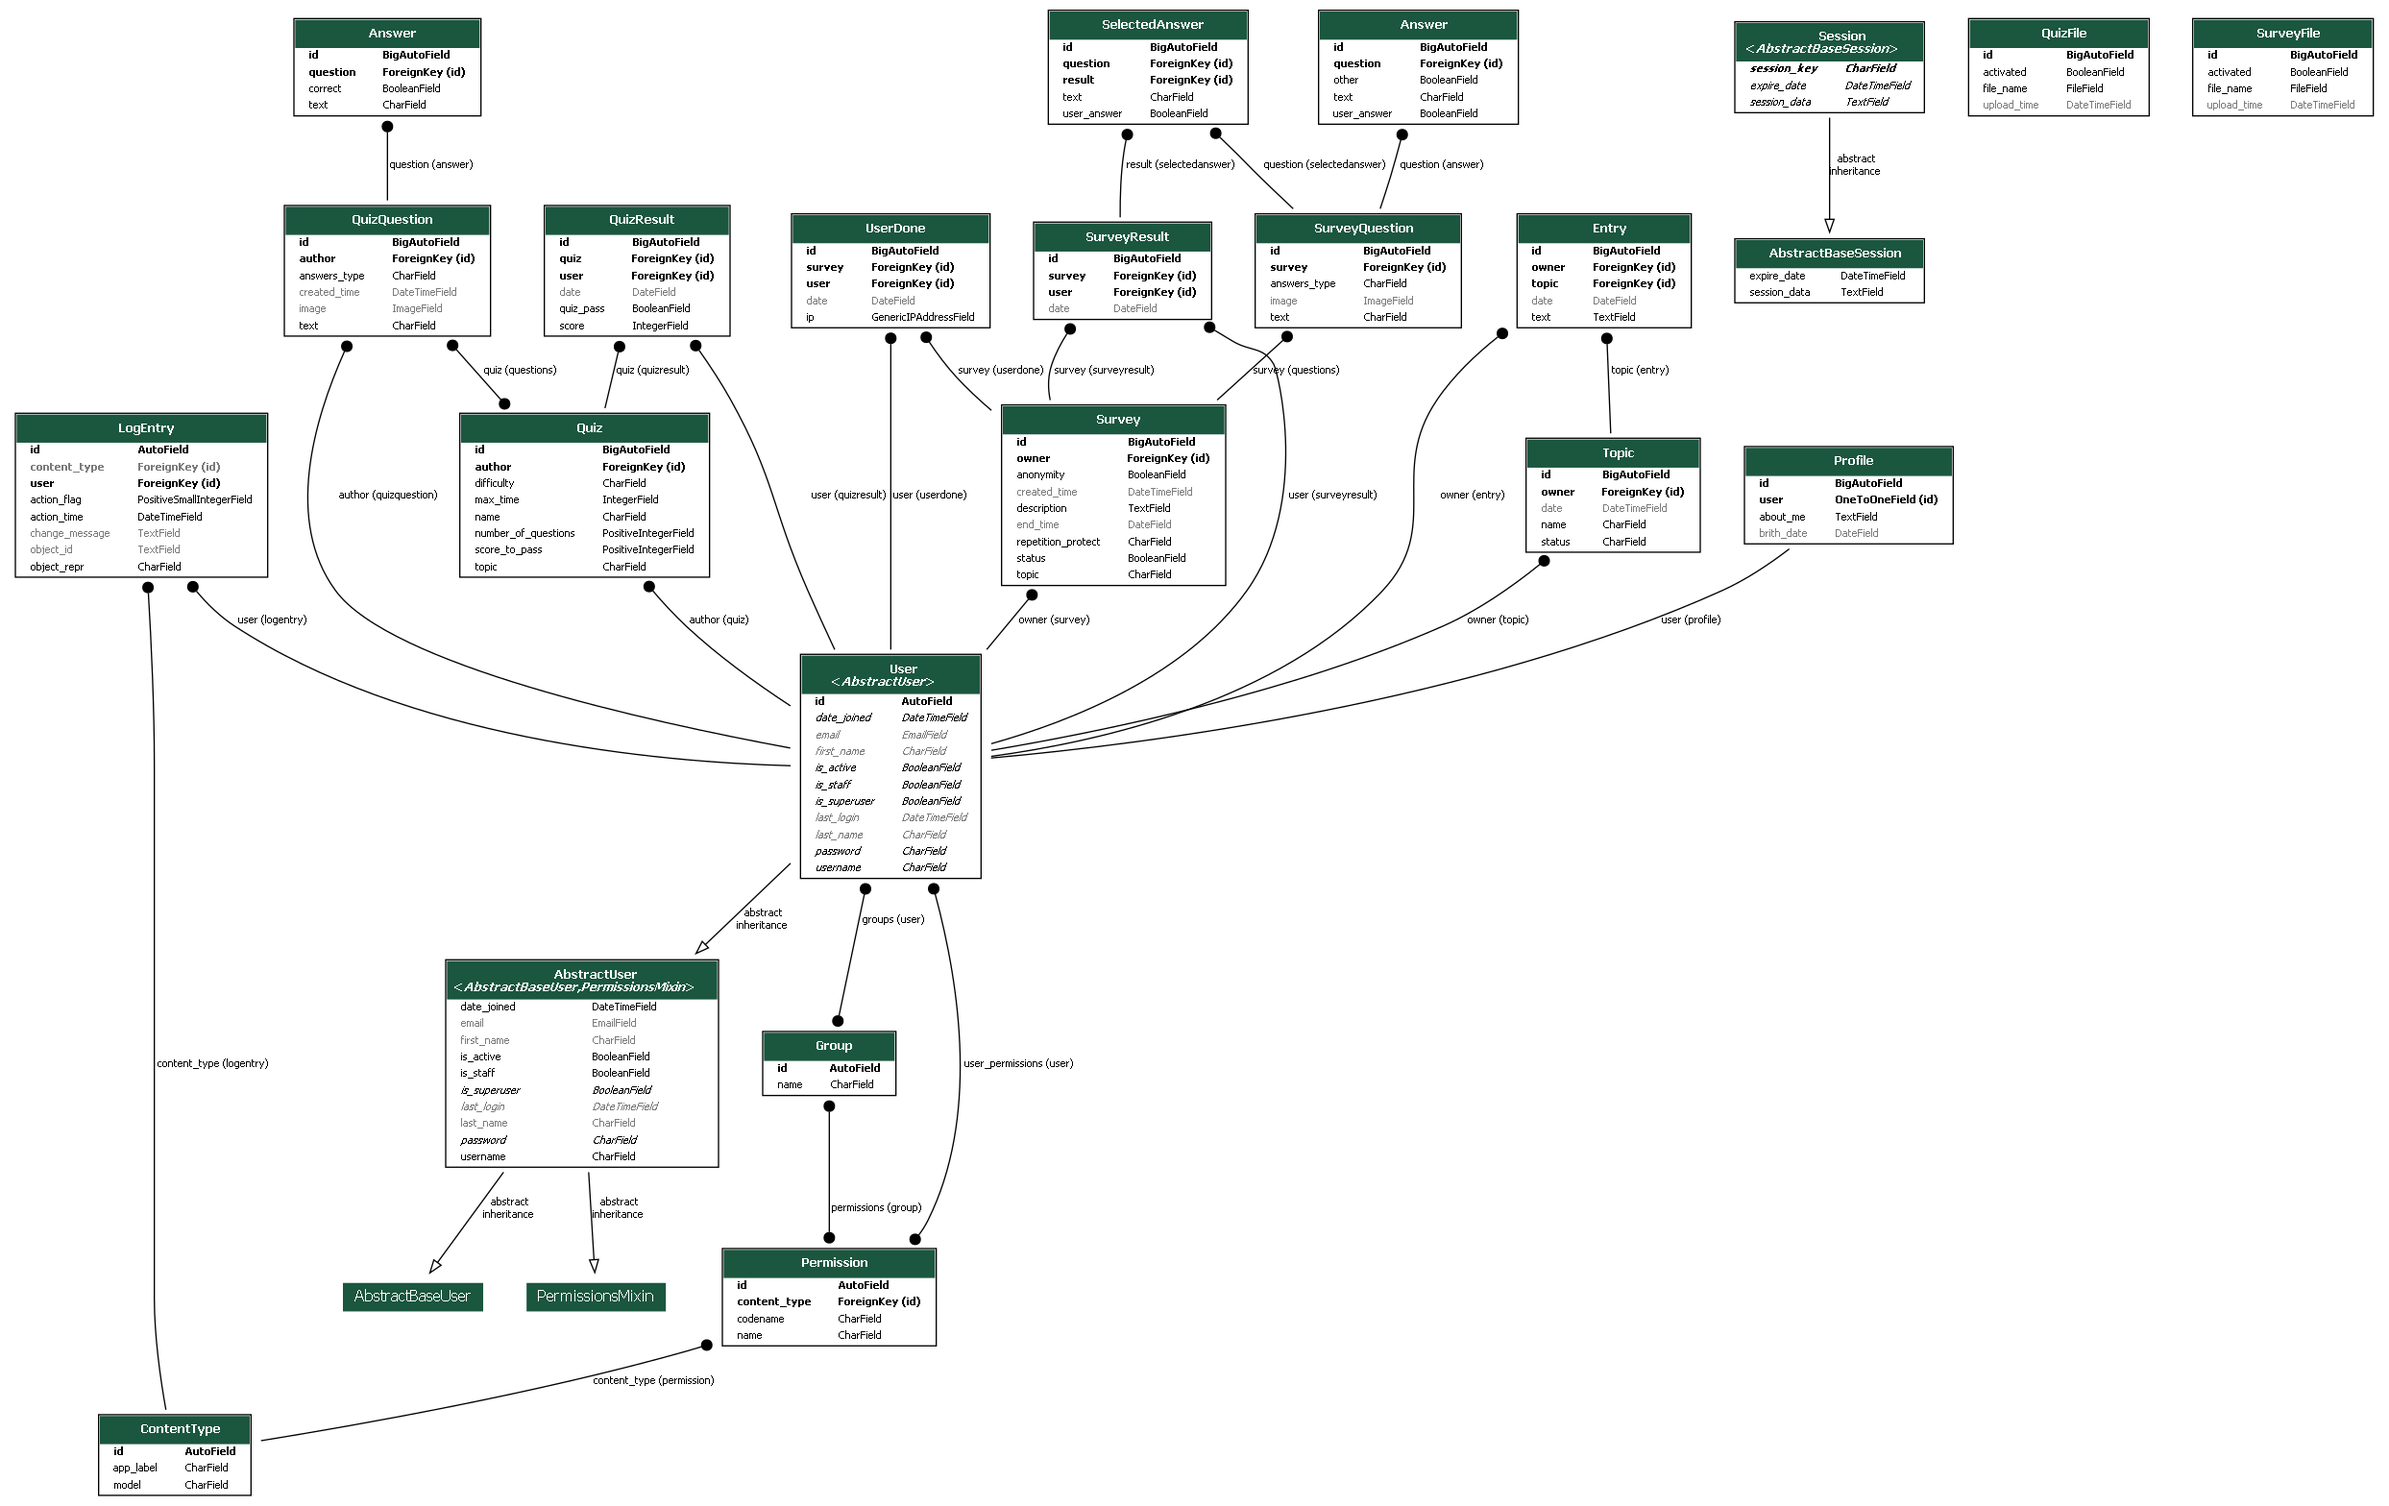
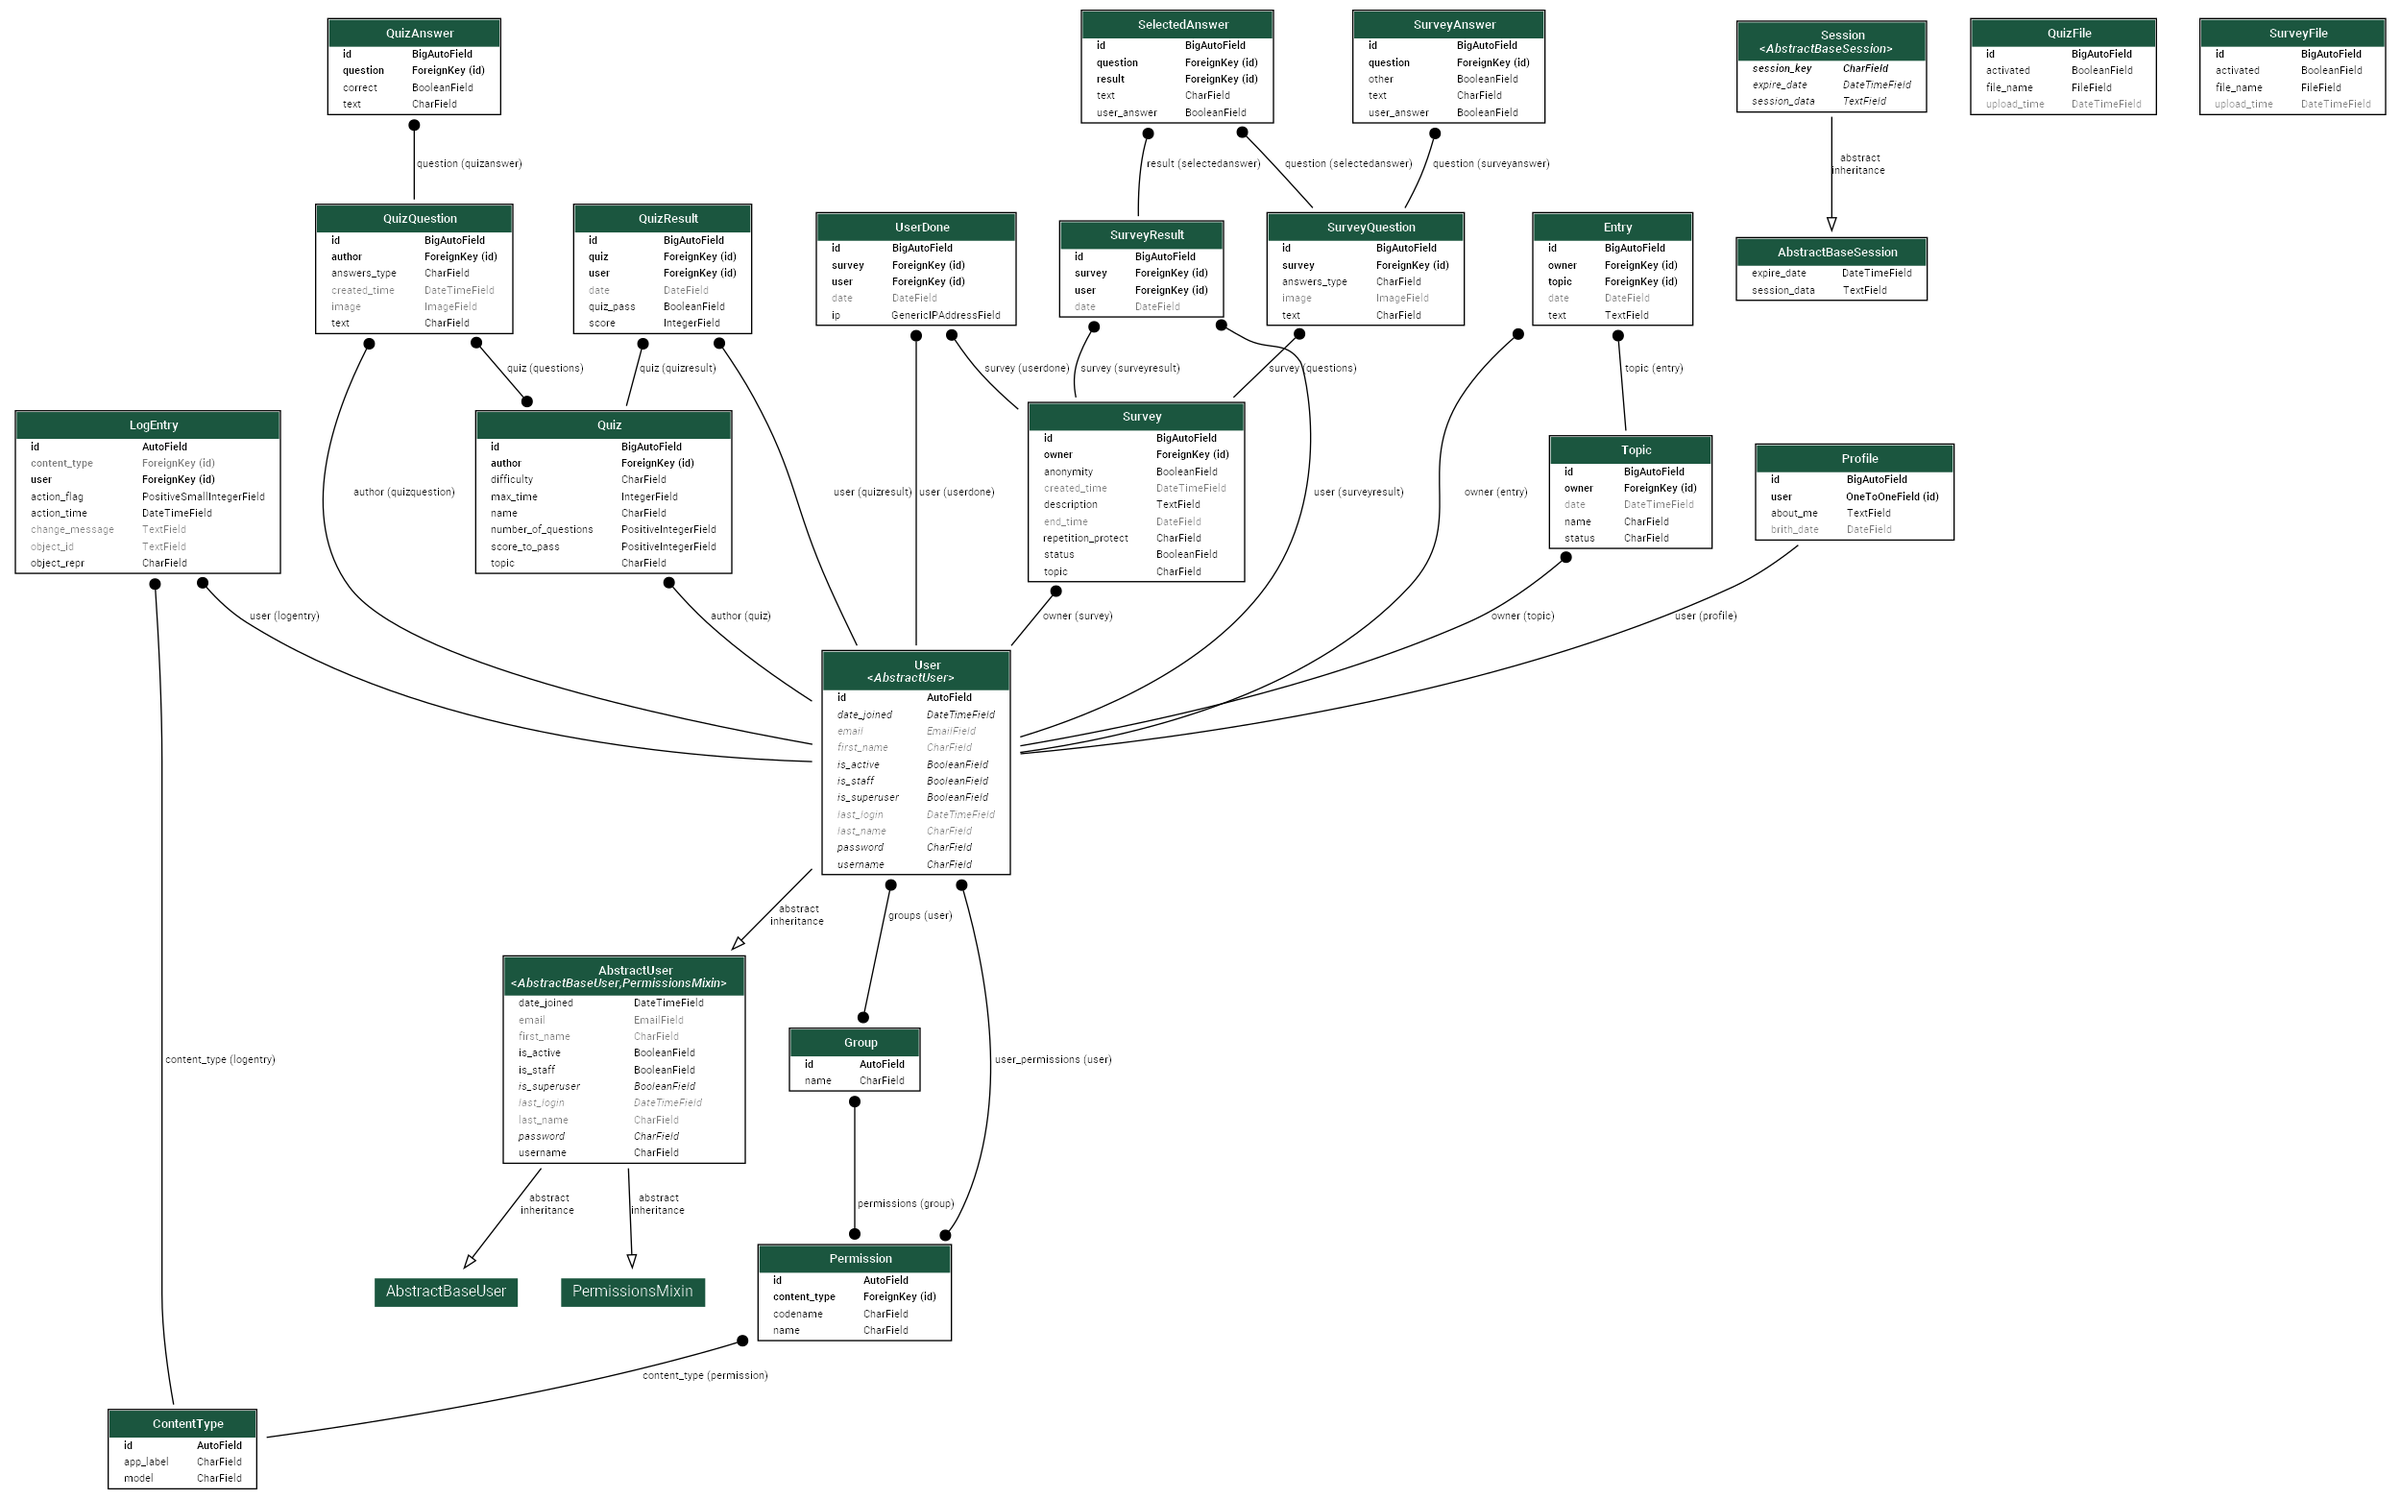
models_graphs_commit

diff --git a/surveys/models.py b/surveys/models.py
@@ -48,7 +48,7 @@ class SurveyQuestion(models.Model):
         answers = list(self.answer_set.all())
         return answers
 
-class Answer(models.Model):
+class SurveyAnswer(models.Model):
     text = models.CharField(max_length=200)
     question = models.ForeignKey(SurveyQuestion, on_delete=models.CASCADE)
     other = models.BooleanField(default=False)

diff --git a/quizzes/models.py b/quizzes/models.py
@@ -54,7 +54,7 @@ class QuizQuestion(models.Model):
         random.shuffle(answers)
         return answers
 
-class Answer(models.Model):
+class QuizAnswer(models.Model):
     text = models.CharField(max_length=200)
     correct = models.BooleanField(default=False)
     question = models.ForeignKey(QuizQuestion, on_delete=models.CASCADE)
